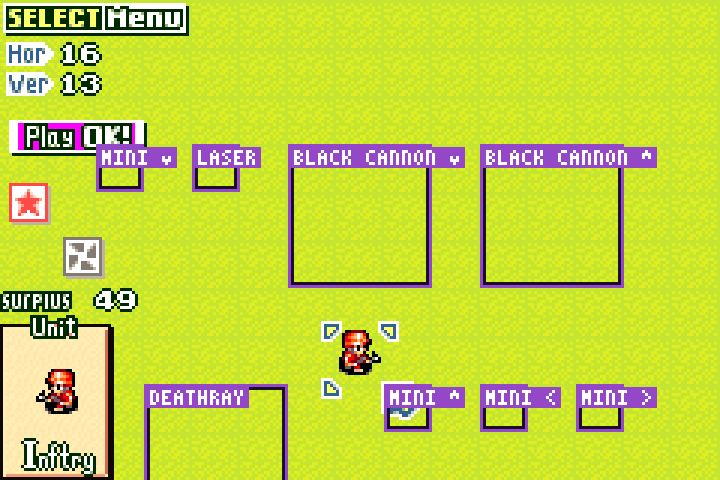
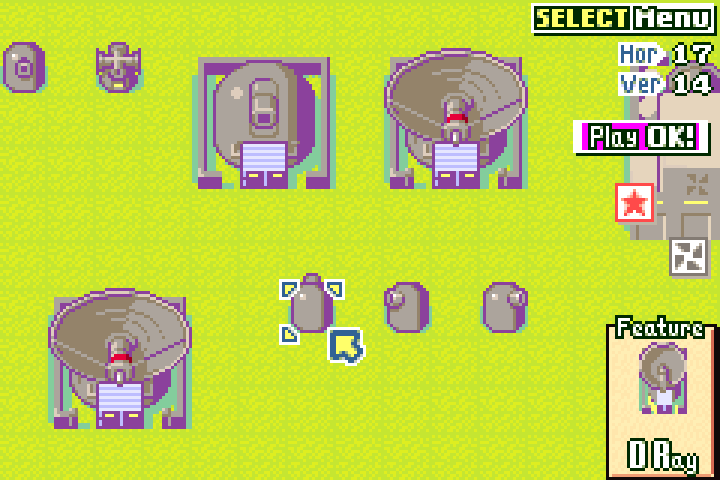
tangoAW2 0.1.9: README shows the inventions in the terrain bar and in the editor

diff --git a/docs/AW2.md b/docs/AW2.md
@@ -68,7 +68,8 @@ libretro CodeBreaker list, the aw2bhr decompilation, and probing with
 Mode 8 with sub-mode 5 (`0x03003FC1`) is the map editor; its state block
 is at `0x0200B000` (tool bar open at `+0x04 == 2`, bar type `+0x07`,
 cursor `+0x08/+0x0A`, terrain tool `+0x2A`, colour slots `+0x2E/+0x2F`,
-first visible bar entry `+0x36/+0x38`, bar entries at `0x0200B224`). The
+first visible bar entry `+0x36/+0x38`, bar entries at `0x0200B224`, moved
+by tangoAW2 to `0x0203FF80`, see below). The
 editor map is at `0x0201E450` (size, camera at `+4/+6`, tiles `+0xA22`,
 classes `+0x1432`, units `+0x12`, row offsets `+0x417A`); tile classes come
 from the ROM table `0x080C1BC4`.
@@ -97,7 +98,41 @@ from the ROM table `0x080C1BC4`.
   tool bar's ring entries (`gDesignRing`, `0x0200B0D0`, 11 x 0x1C, flags
   first) so the bar redraws for the new CO. Back to Yellow Comet undoes it.
 - In a tool bar SELECT only swapped bars, like L/R; tangoAW2 turns a SELECT
-  press into UP (next army, Black Hole included; next invention on Silo).
+  press into UP (next army, Black Hole included).
+- Inventions in the terrain bar (`design_bar.rs`): the bar's list is built
+  from the template `0x08488810` by `sub_080078E4` into 17 (terrain) or 20
+  (units) 4-byte entries (type or unit word, tile placed) at `0x0200B224`,
+  and the HBlank buffer follows at `0x0200B274`. tangoAW2 repoints the nine
+  literal-pool words for the list (`0x08001CFC`, `0x08001D58`,
+  `0x08001D88`, `0x080062B8`, `0x08006340`, `0x08007750`, `0x08007844`,
+  `0x080078D0`, `0x08007918`) to `0x0203FF80`, patches the terrain list's
+  length 17/16/0x44 to 27/26/0x6C where the editor wraps it (`0x08000CEA`,
+  `0x08001D4E`, `0x0800626E/72`, `0x080062E6`, `0x08006460/68`,
+  `0x08006562`, `0x08007798/9C/9E`), all in the ROM image in memory, and a
+  trap at the builder's exit (`0x080079B2`) inserts the ten inventions
+  (types `0x15..0x1E` with their anchor tiles) after the Silo. Icons: the
+  bar's sprite loader `sub_0803F6BC` already loads a type's terrain-panel
+  picture (`0x08104464 + 0x100*(type-1)`) for types it has no case for;
+  traps at its entry and exit (`0x0803F7FE`, r4 kind, r5 dest) remap the
+  colours from the panel palette (`0x08106864`, entry 13; the base under
+  every icon, entry 2) to the palette the icon is drawn with, which a trap
+  on the palette lookup's return (`0x08001D20`) picks (the Volcano's is the
+  editor's mountain palette, 7). Names are the game's own. A on the map
+  with an invention picked places its footprint.
+- Inventions drawn in the editor (`invention_art.rs`): in battle they are
+  only sprites (their map tiles draw as plain; the metatile table
+  `0x080BFBC4` maps them to grass), placed each frame with Black Hole's unit
+  palette `0x080D3E84` at priority 3. The sources: minicannons and laser
+  raw at `0x080D02C4..0x080D07C4` (16x32, one tile above the cell); Black
+  Cannons LZ77 at `0x080D24E0` (down, tiles 36..71) and `0x080D2AE8` (up,
+  0..35; the Deathray uses it too), 48x48 from four sprites; Black Factory
+  `0x080D22C4` (48x64, three sprites); Volcano `0x080D3268` (one 64x64,
+  palette `0x080D3EC4`). In the editor tangoAW2 loads them into OBJ tiles
+  289..512 and palette 2 (never used by the editor) and appends each placed
+  invention's sprites at the game's VBlank sprite flush (`0x0801BBC4`; the
+  frame's list at `[0x03002F2C]` inside the area described at
+  `0x03000268`). On a Volcano map palette 2 holds the Volcano's colours
+  and the rest use slot 4's unit palette (12).
 - The aw2bhr decompilation (`src/design.c`) names most of the editor's
   drawing: `sub_08002844` (unit icon: `sub_080261A4(slot, kind)`, CO-country
   based) and `sub_0800272C` (terrain icon; HQs via `sub_0803F6BC(8, army)`).
@@ -152,10 +187,13 @@ from the ROM table `0x080C1BC4`.
 
 ## Title and menu badge (`tango-gamesupport-aw2/src/branding.rs`)
 
-- A "tangoAW2" badge is drawn by the presentation overlay (no RAM writes)
-  while `ProcScr_TitleScreen` (`0x08581CF8`) or `ProcScr_MainMenu`
-  (`0x0849E818`) is running; the process pool is `sProcArray`
-  (`0x0200D610`, 0x6C bytes each, script pointer first), names from aw2bhr.
+- A "tangoAW2" badge drawn by the game's sprite hardware while
+  `ProcScr_TitleScreen` (`0x08581CF8`) or `ProcScr_MainMenu` (`0x0849E818`)
+  is running (the process pool is `sProcArray`, `0x0200D610`, 0x6C bytes
+  each, script pointer first; names from aw2bhr): its tiles in unused OBJ
+  tiles 928.. (title) and 992.. (menu), its colours in OBJ palette 15, its
+  64x32 sprites appended at the VBlank sprite flush like the Design Room's
+  inventions.
 
 ## Known limits
 

diff --git a/README.md b/README.md
@@ -40,15 +40,15 @@ No game is included. You need your own copy of the cartridge dumped to a
   buildings, HQs and banners take the picked army's colours; Campaign and
   War Room keep their story armies.
 - **Black Hole in the Design Room.** Build maps with a Black Hole army and
-  Black Hole's inventions: minicannons, laser, Black Cannons, Black
-  Factory, Volcano and Deathray, and switch back to Yellow Comet any
-  time. See [Design Room](#design-room-black-hole-and-its-inventions).
+  Black Hole's inventions (minicannons, laser, Black Cannons, Black
+  Factory, Volcano and Deathray), each picked from the terrain bar and
+  shown as it looks in battle. Switch back to Yellow Comet any time. See [Design Room](#design-room-black-hole-and-its-inventions).
 - **Play as Black Hole with its inventions.** The Black Factory deploys
   units for you and the Deathray fires on your enemies, like in the
   campaign, offline and online. See [inventions in battle](#black-holes-inventions-in-battle).
 - **tangoAW2 on the title screen and the main menu**, so you can tell at a
-  glance you're in tangoAW2. It's drawn over the picture: the game itself
-  and your ROM file are unchanged.
+  glance you're in tangoAW2. The game draws it as part of its own picture;
+  your ROM file is unchanged.
 - **Play offline** without a connection, or online with a friend through a
   link code or a direct connection.
 
@@ -182,27 +182,47 @@ already on the map.
 
 ### Inventions
 
-1. Open the terrain bar (**R**) and highlight **Silo**.
-2. Press **UP/DOWN** to pick an invention. Its name shows in the top-right
-   corner: minicannon (facing down, up, left or right), laser, Black
-   Cannon (facing down or up), Black Factory, Volcano, Deathray.
-3. Press **A** to choose it, then **A** on the map to place it. Big ones
+Black Hole's inventions have their own entries in the terrain bar, right
+after **Silo**, each with its icon and name, like any other terrain:
+minicannons (facing down, up, left and right; the game calls them
+"Cannon"), Laser, Black Cannons (facing down and up, also "Cannon"),
+Factory, Volcano and D.Ray (the Deathray).
+
+1. Open the terrain bar (**R**) and move to the invention with
+   **LEFT/RIGHT**.
+2. Press **A** (Z) to pick it, then **A** on the map to place it. Big ones
    are placed around the cursor.
 
-In the editor, inventions show as labelled outlines; they look like the
-real thing in battle. An invention can't go off the edge of the map or on
-top of a building or unit. A map can hold up to 15 inventions, and either
-a Black Factory or a Volcano, not both. To remove an invention, place any
-terrain on its labelled tile.
+Placed inventions show in the editor exactly as they look in battle. An
+invention can't go off the edge of the map or on top of a building or unit.
+A map can hold up to 15 inventions, and either a Black Factory or a
+Volcano, not both. To remove one, place any terrain on the tile the cursor
+was on when you placed it.
 
 <table>
 <tr>
-<td><img src="docs/screenshots/design-invention-picker.png" width="360" alt="Picking the Black Factory on the Silo entry"></td>
-<td><img src="docs/screenshots/design-inventions-editor.png" width="360" alt="Minicannons, laser, Black Cannons and Deathray on a design map"></td>
+<td><img src="docs/screenshots/design-invention-bar.png" width="360" alt="The terrain bar with the inventions: Cannons, Laser, Factory, Volcano"></td>
+<td><img src="docs/screenshots/design-invention-selected.png" width="360" alt="The Laser picked, shown in the Feature panel"></td>
 </tr>
 <tr>
-<td align="center">Silo + UP/DOWN picks an invention</td>
-<td align="center">Placed inventions, labelled</td>
+<td align="center">The inventions in the terrain bar</td>
+<td align="center">Laser picked</td>
+</tr>
+<tr>
+<td><img src="docs/screenshots/design-inventions-editor.png" width="360" alt="Minicannons, laser, Black Cannons and the Deathray on a design map in the editor"></td>
+<td><img src="docs/screenshots/design-factory-placed.png" width="360" alt="A Black Factory just placed"></td>
+</tr>
+<tr>
+<td align="center">Placed inventions in the editor</td>
+<td align="center">A Black Factory placed</td>
+</tr>
+<tr>
+<td><img src="docs/screenshots/design-volcano-editor.png" width="360" alt="A Volcano in the editor"></td>
+<td></td>
+</tr>
+<tr>
+<td align="center">The Volcano</td>
+<td></td>
 </tr>
 </table>
 
